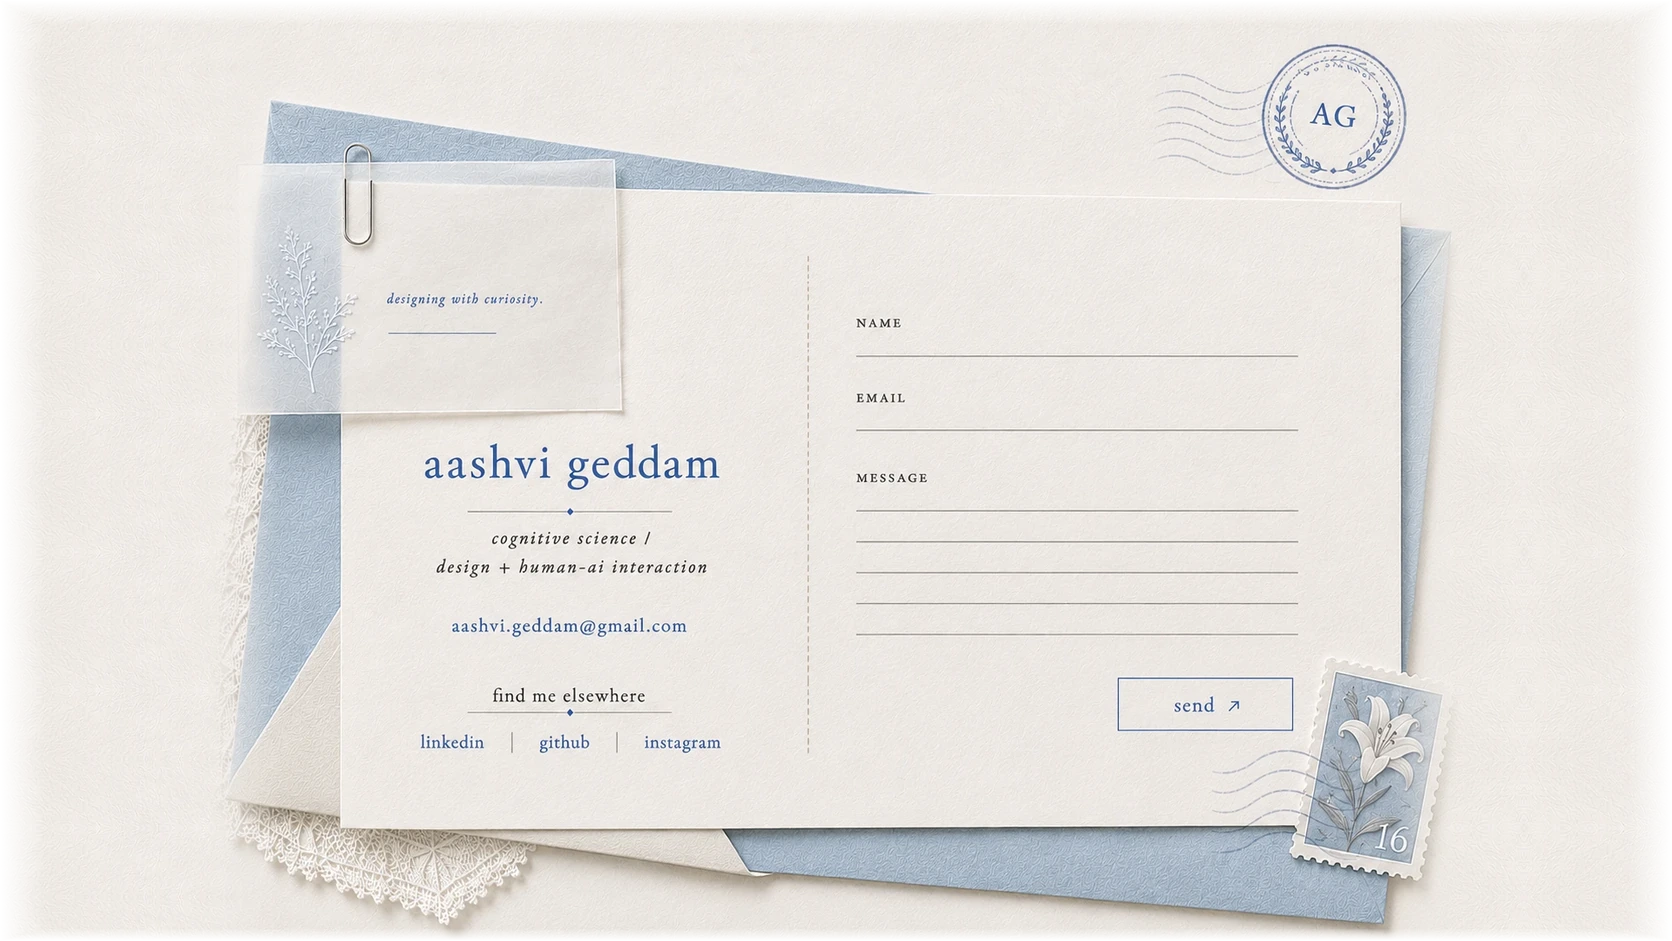
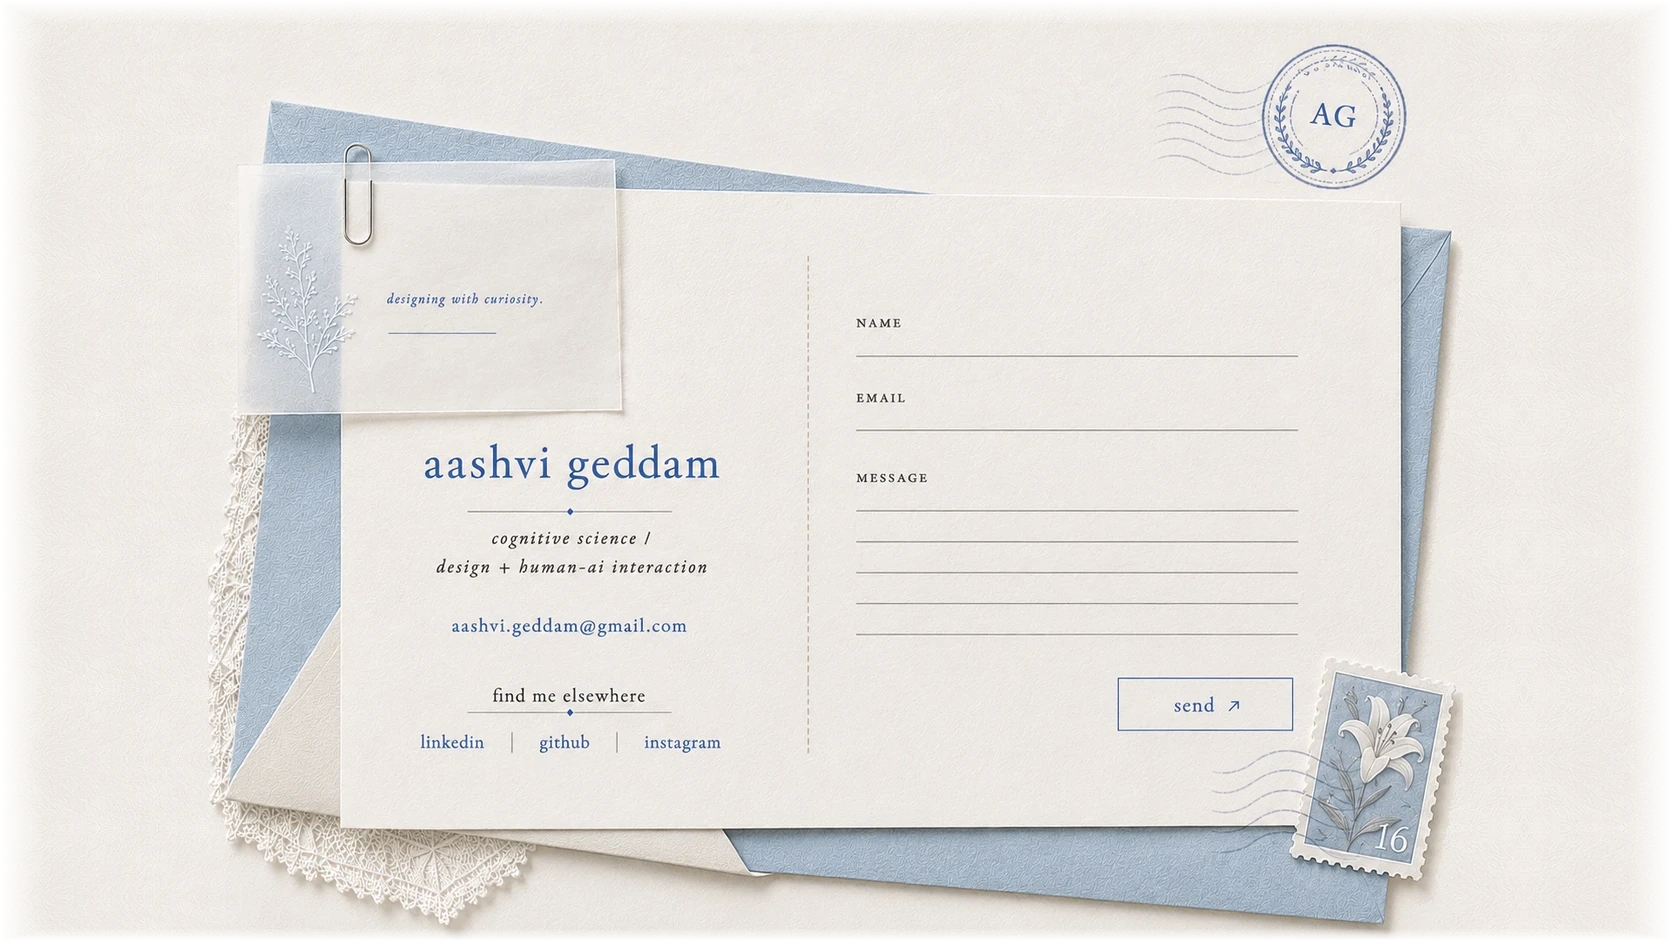
Let's Chat: keep the lace whole, nudge the layout, hover underlines
The wide composition used to blend the artwork onto its side bands
with a flat 70px feather, which dissolved the lace doily's left edge
- the artwork runs full-bleed, so only backdrop-coloured pixels may
fade in the seam zones now and the lace keeps its cut edge. The
script heading moves a little left, the whole postcard sits 30px
lower on the page, and the linkedin / github / instagram hotspots
answer a hover with a small underline.

Claude-Session: https://claude.ai/code/session_01HwHnB6ZvdvjAvLg4jAqUHh

Changed region(s): [[0.8397, 0.2465, 0.8708, 0.6472], [0.1244, 0.5855, 0.1555, 0.8937], [0.8397, 0.7396, 0.8708, 0.9245]]

diff --git a/index.html b/index.html
@@ -269,6 +269,13 @@ body.mobile #ct-bg{display:none}
 .ct-hot{z-index:3}
 .ct-hot a{position:absolute;inset:0;display:block}
 .ct-hot a:focus-visible{outline:1.5px dashed rgba(57,88,136,.45);outline-offset:2px}
+/* the find-me row answers a hover with a little underline */
+#ct-li a::after,#ct-gh a::after,#ct-ig a::after{content:"";position:absolute;
+  left:3px;right:3px;bottom:3px;height:1.5px;background:#4b648f;opacity:.85;
+  transform:scaleX(0);transform-origin:center;transition:transform .18s ease}
+#ct-li a:hover::after,#ct-gh a:hover::after,#ct-ig a:hover::after,
+#ct-li a:focus-visible::after,#ct-gh a:focus-visible::after,#ct-ig a:focus-visible::after{
+  transform:scaleX(1)}
 #ct-oops{position:absolute;z-index:3;display:none;text-align:center;
   font-family:"Courier Prime","Courier New",monospace;font-size:13px;color:#8c4a42}
 #ct-oops.show{display:block}
@@ -903,9 +910,10 @@ function fit(){
   const a = Math.min(innerWidth / AW, innerHeight / AH);
   ac.style.transform = "translate(-50%,-50%) scale(" + a + ")";
   if (wc) wc.style.transform = "translate(-50%,-50%) scale(" + a + ")";
-  /* the postcard sits a touch smaller than the other pages' canvases,
-     with the page's own cream showing around it */
-  if (cc) cc.style.transform = "translate(-50%,-50%) scale(" + (a * 0.78) + ")";
+  /* the postcard sits a touch smaller and lower than the other pages'
+     canvases, with the page's own cream showing around it */
+  if (cc) cc.style.transform =
+    "translate(-50%, calc(-50% + 30px)) scale(" + (a * 0.78) + ")";
 }
 addEventListener("resize", fit); fit();
 
@@ -1296,7 +1304,7 @@ if (workCanvas) {
    so this one set of measurements lands the visitor's writing on the
    printed rules in either layout. */
 const CT_ART = {
-  head: {x: 450, y: 30, w: 685, h: 140, fs: 126},  /* the live script heading */
+  head: {x: 405, y: 30, w: 685, h: 140, fs: 126},  /* the live script heading */
   name: {x: 748, y: 410.5, w: 509},          /* the rule each field writes on */
   email:{x: 748, y: 496.5, w: 509},
   msg:  {x: 748, y: 589,   w: 509, step: 35.6, lines: 5},
